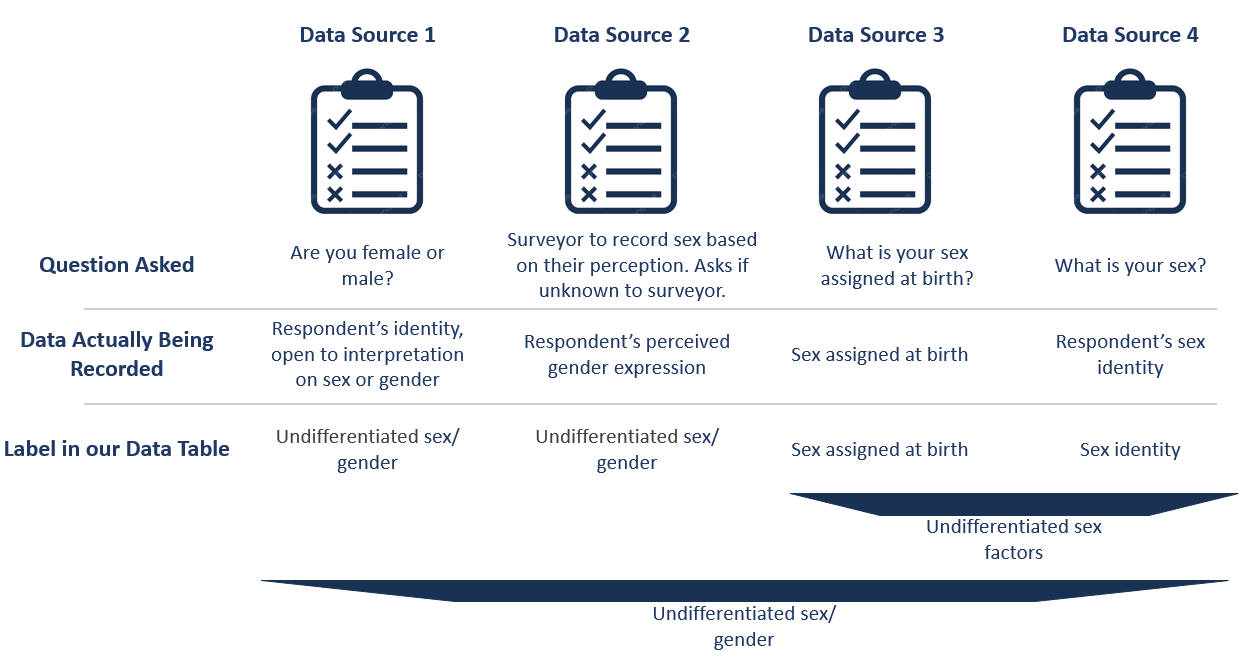
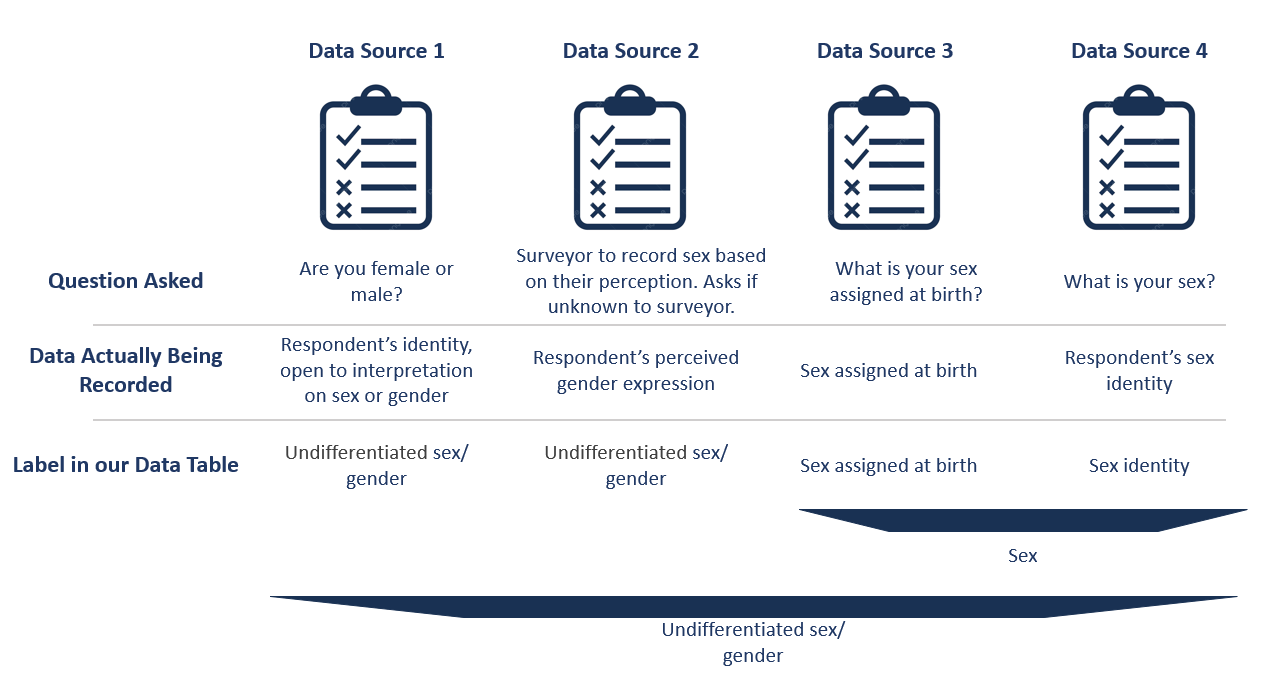
Updates from comments

diff --git a/docs/source/model_design/general_reference_material/bliss/index.rst b/docs/source/model_design/general_reference_material/bliss/index.rst
@@ -503,9 +503,9 @@ this data in our analysis. You can see the first two data sources would both be
 undifferentiated sex/gender. This is due to ambiguity between sex and gender in 
 the question asked. 
 
-The latter two data source more clearly reflect sex, although one is sex assigned 
+The latter two data sources more clearly reflect sex, although one is sex assigned 
 at birth and the other is sex identity. Therefore if you included both data source 
-3 and 4, you might label this as undifferentiated sex factors. 
+3 and 4, you might label this as sex. 
 
 If you included one of the first two data sources as well, it is no longer clear 
 that sex is measured instead of gender and so you would use undifferentiated sex/gender. 
